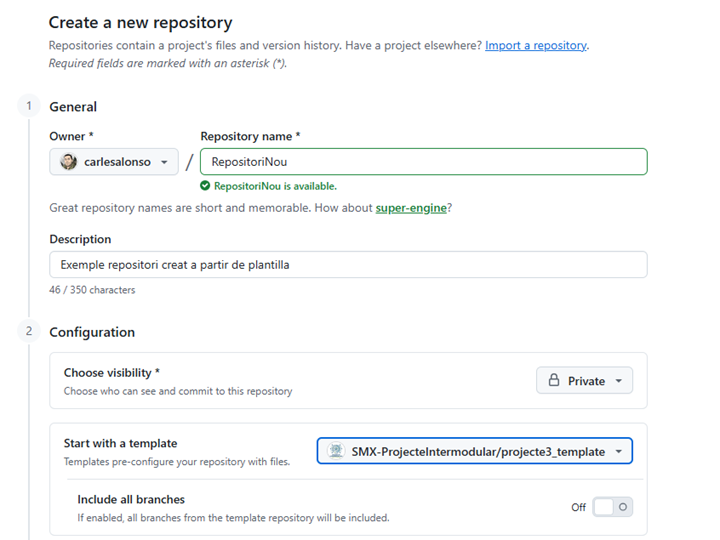
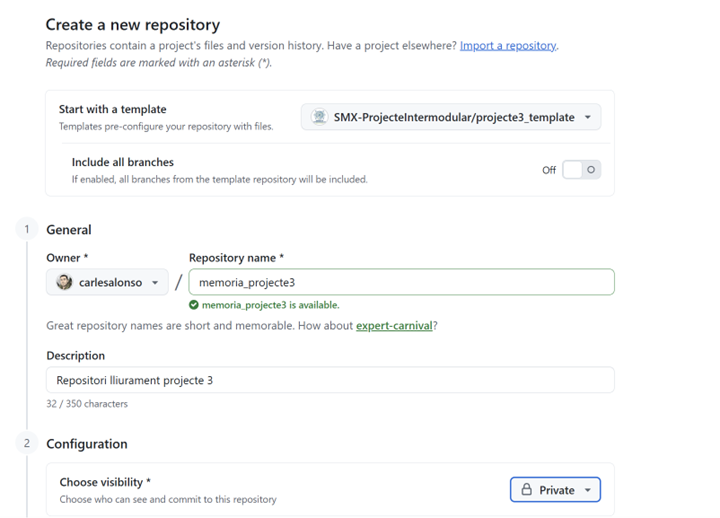
Millorar la guia de creació de repositoris amb plantilles: afegir instruccions detallades i noves imatges il·lustratives.

diff --git a/git-github/04-crear-repositoris.md b/git-github/04-crear-repositoris.md
@@ -2,16 +2,15 @@
 
 Aquesta guia explica com crear un repositori nou a GitHub a partir d'una plantilla (*template*) i com configurar-lo perquè sigui **privat**.
 
-## Accedir al formulari de nou repositori
-
-1. Inicia sessió a [GitHub](https://github.com).
-2. A la barra superior, fes clic al botó **+** i selecciona **New repository**.
-
-![Menú + > New repository](./img/new-repository.png)
-
 ## Crear el repositori a partir d'una plantilla
 
 Un repositori plantilla és un repositori que conté una estructura de fitxers i carpetes preparada per ser reutilitzada. Crear un repositori a partir d'ella copia aquesta estructura (sense l'historial de commits) al teu compte.
+
+Hi ha dues maneres de crear un repositori a partir d'una plantilla:
+
+### Des del repositori plantilla
+
+És la manera més senzilla. Només cal que accedeixis al repositori plantilla, un cop t'hagi validat a GitHub, i facis clic al botó **Use this template**. Tria l'opció **Create a new repository** i segueix els passos següents:
 
 1. A **Owner** assegura't que apareix el teu nom d'usuari o l'organització on vols crear el repositori si pertanys a una. Això serà important en projectes on haureu de crear el repositori dins d'una organització i no al vostre compte personal.
 
@@ -19,13 +18,29 @@ Un repositori plantilla és un repositori que conté una estructura de fitxers i
 
 3. A **Choose visibility** selecciona **Private** si vols que el repositori sigui privat. Si no, deixa-ho com a **Public**.
 
-4. A **Start with a template** fes clic a **Choose a template** , si tens plantilles pròpies o a les organitzacions on pertanys, les veuràs a la llista. Si no, escriu directament el nom de la plantilla que vols utilitzar, per exemple:
-
-```text
-SMX-ProjecteIntermodular/projecte3-template
-```
+4. Clica sobre el botó **Create repository** al final del formulari.
 
 ![Plantilla projecte3-template](./img/new_from_template.png)
+
+### Des del formulari de nou repositori
+
+També ho pots des del teu compte de GitHub, sense haver d'accedir al repositori plantilla. Per fer-ho:
+
+1. A la barra superior, fes clic al botó **+** i selecciona **New repository**.
+
+   ![Menú + > New repository](./img/new-repository.png)
+
+2. A **Owner** assegura't que apareix el teu nom d'usuari o l'organització on vols crear el repositori si pertanys a una. Això serà important en projectes on haureu de crear el repositori dins d'una organització i no al vostre compte personal.
+
+3. Escriu el nom del repositori **Repository Name** que vols crear, per exemple `projecte3` i inclou una descripció a **Description**.
+
+4. A **Choose visibility** selecciona **Private** si vols que el repositori sigui privat. Si no, deixa-ho com a **Public**.
+
+5. A **Start with a template** fes clic a **Choose a template** , si tens plantilles pròpies o a les organitzacions on pertanys, les veuràs a la llista. Si no, escriu directament el nom de la plantilla que vols utilitzar, per exemple:
+
+   `SMX-ProjecteIntermodular/projecte3-template`
+
+![Nou amb plantilla](./img/new_using_template.png)
 
 ## Canviar la visibilitat d'un repositori existent
 
